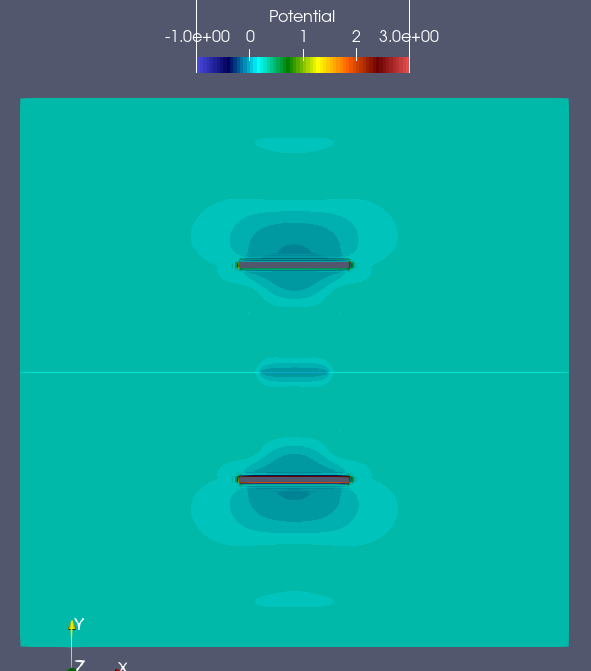
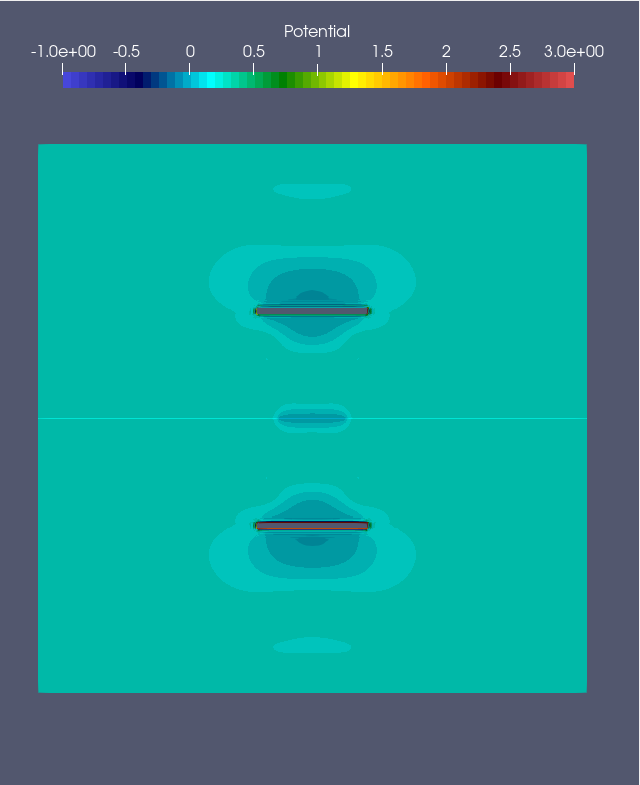
modified:   EMsampleProb.cpp 	modified:   Imgs/Sample0CurrentMagPlot.png 	modified:   Imgs/Sample0Potential.PNG 	modified:   README.md

diff --git a/EMsampleProb.cpp b/EMsampleProb.cpp
@@ -133,14 +133,14 @@ int main(int argc, char *argv[])
    //    parallel mesh is defined, the serial mesh can be deleted.
    ParMesh *pmesh = new ParMesh(MPI_COMM_WORLD, *mesh);
    delete mesh;
-/*
+
    {
       int par_ref_levels = 2;
       for (int l = 0; l < par_ref_levels; l++)
       {
          pmesh->UniformRefinement();
       }
-   }*/
+   }
 
    // 7. Define a parallel finite element space on the parallel mesh. Here we
    //    use the Raviart-Thomas finite elements of the specified order.

diff --git a/README.md b/README.md
@@ -42,11 +42,8 @@ or
 
 `mpirun -np 1 ./EMsampleProb --mesh mesh/OxNanoSys0.mesh`
 
-A sample potential field is given by:
-![image1](Imgs/Sample0Potential.PNG)
-
-A current magnitude probe across the plate is given :
-![image1](Imgs/Sample0CurrentMagPlot.png)
+Figures of a sample potential field (left) and a probe of thecurrent magnitude across the plate (right) is given by :
+![image0](Imgs/Sample0Potential.PNG)  |  ![image1](Imgs/Sample0CurrentMagPlot.png)
 
 # Sample problem 1:
 This uses MFEM features for external meshes based off of the [MFEM tutorial](https://mfem.org/tutorial/meshvis/) , it has the additional dependency
